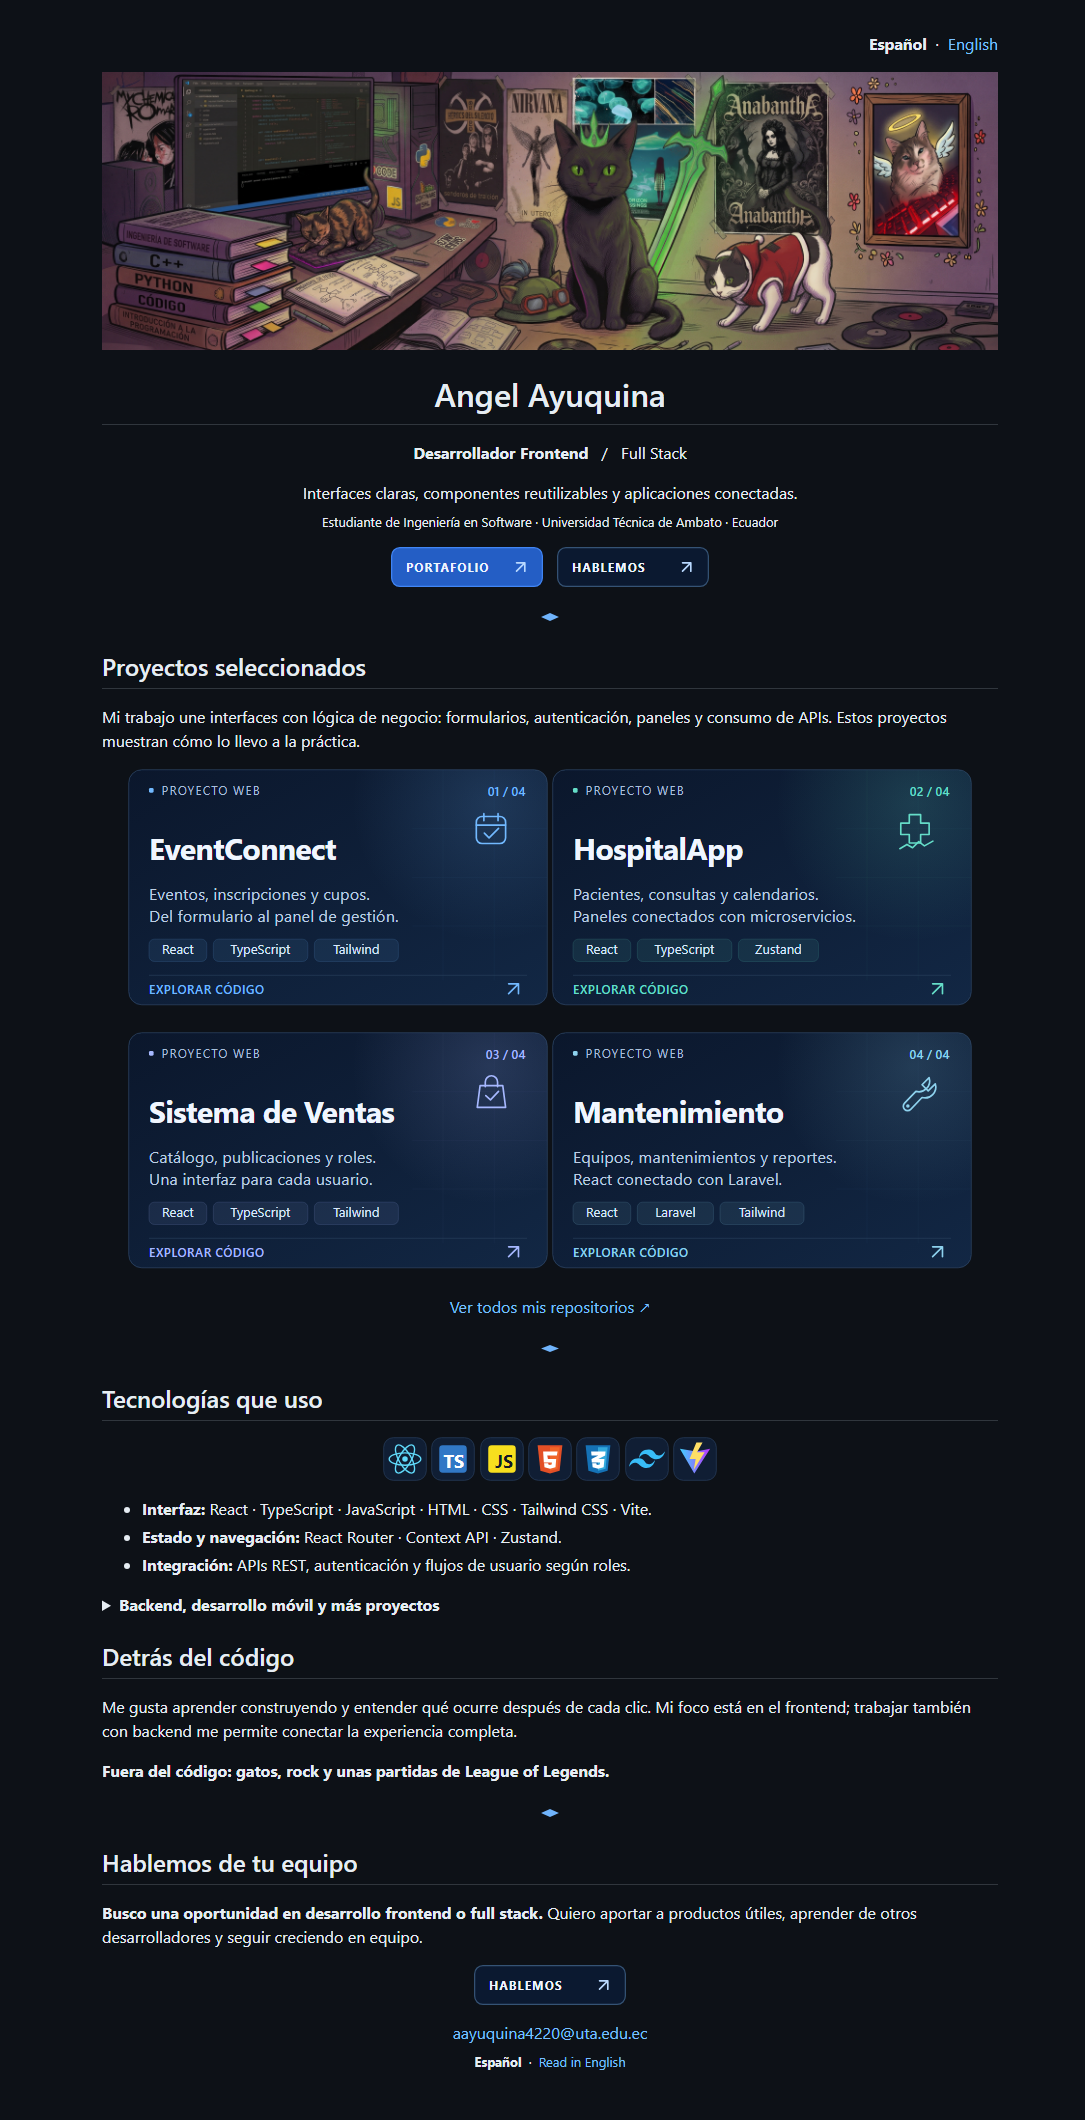
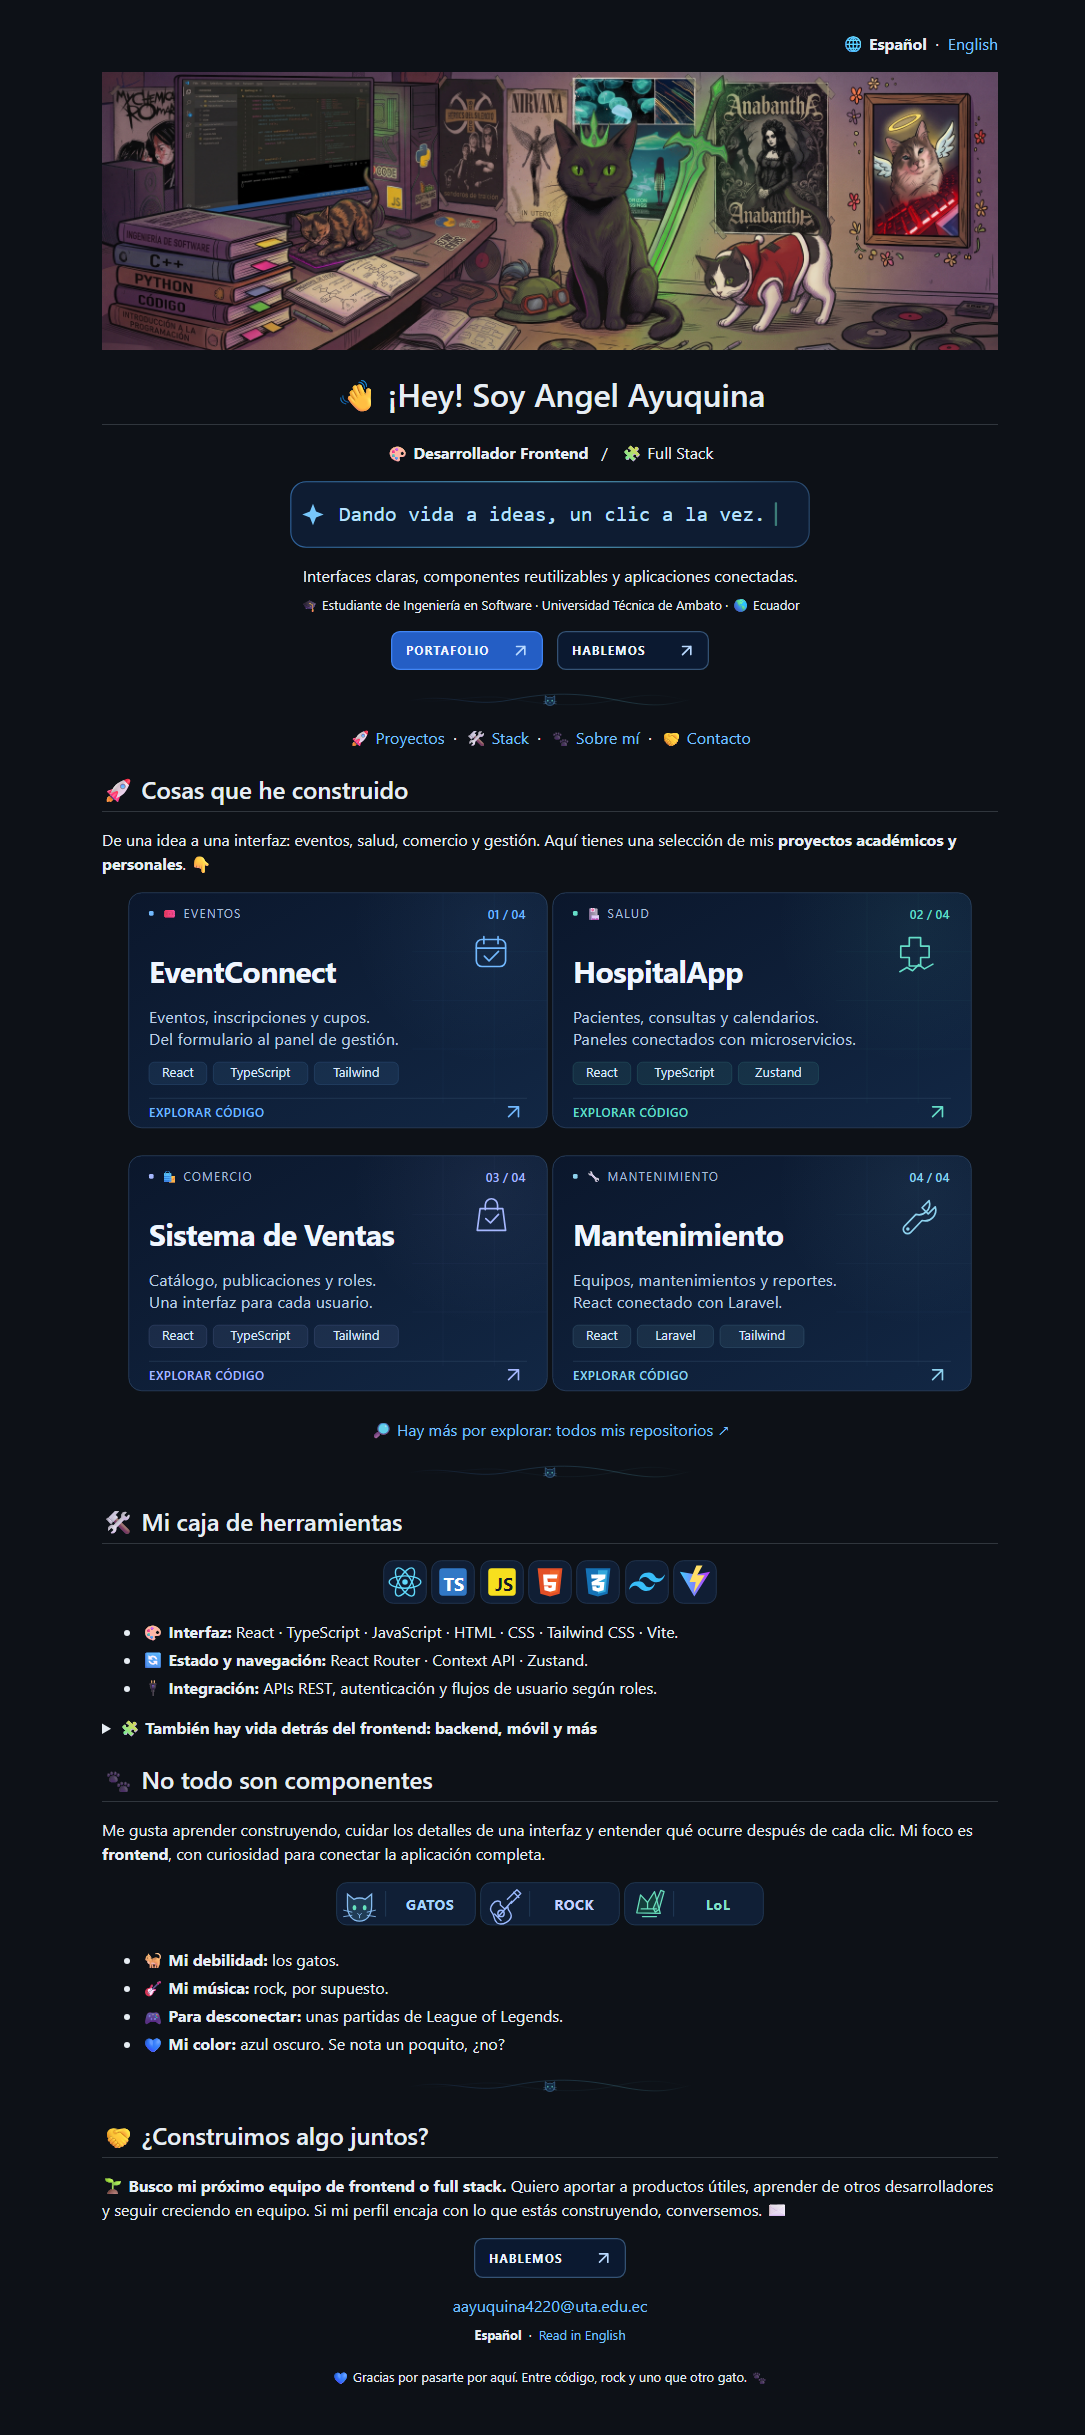
Add personality, emojis and animations to bilingual profile

diff --git a/README.md b/README.md
@@ -1,18 +1,22 @@
 <p align="right">
-  <strong>Español</strong> &nbsp;·&nbsp; <a href="./README.en.md" lang="en">English</a>
+  🌐 <strong>Español</strong> &nbsp;·&nbsp; <a href="./README.en.md" lang="en">English</a>
 </p>
 
 ![Habitación de programación y rock con gatos, detalles de Viego y Teemo y el retrato de un gato alado.](./assets/profile-header.png)
 
-<h1 align="center">Angel Ayuquina</h1>
+<h1 align="center">👋 ¡Hey! Soy Angel Ayuquina</h1>
 
 <p align="center">
-  <strong>Desarrollador Frontend</strong> &nbsp; / &nbsp; Full Stack
+  <strong>🎨 Desarrollador Frontend</strong> &nbsp; / &nbsp; 🧩 Full Stack
+</p>
+
+<p align="center">
+  <img src="./assets/ui/welcome-es.svg" width="520" alt="Dando vida a ideas, un clic a la vez.">
 </p>
 
 <p align="center">
   Interfaces claras, componentes reutilizables y aplicaciones conectadas.<br>
-  <sub>Estudiante de Ingeniería en Software · Universidad Técnica de Ambato · Ecuador</sub>
+  <sub>🎓 Estudiante de Ingeniería en Software · Universidad Técnica de Ambato · 🌎 Ecuador</sub>
 </p>
 
 <p align="center">
@@ -23,9 +27,18 @@
 
 <img src="./assets/ui/divider.svg" width="100%" height="18" alt="">
 
-## Proyectos seleccionados
+<p align="center">
+  <a href="#projects">🚀 Proyectos</a> &nbsp;·&nbsp;
+  <a href="#stack">🛠 Stack</a> &nbsp;·&nbsp;
+  <a href="#about">🐾 Sobre mí</a> &nbsp;·&nbsp;
+  <a href="#contact">🤝 Contacto</a>
+</p>
 
-Mi trabajo une interfaces con lógica de negocio: formularios, autenticación, paneles y consumo de APIs. Estos proyectos muestran cómo lo llevo a la práctica.
+<a name="projects"></a>
+
+## 🚀 Cosas que he construido
+
+De una idea a una interfaz: eventos, salud, comercio y gestión. Aquí tienes una selección de mis **proyectos académicos y personales**. 👇
 
 <p align="center">
   <a href="https://github.com/T1Angel4220/eventconnect"><img src="./assets/projects/eventconnect-es.svg" width="420" alt="EventConnect: eventos, inscripciones y cupos. React, TypeScript y Tailwind. Explorar código."></a>
@@ -38,12 +51,14 @@ Mi trabajo une interfaces con lógica de negocio: formularios, autenticación, p
 </p>
 
 <p align="center">
-  <a href="https://github.com/T1Angel4220?tab=repositories">Ver todos mis repositorios ↗</a>
+  <a href="https://github.com/T1Angel4220?tab=repositories">🔎 Hay más por explorar: todos mis repositorios ↗</a>
 </p>
 
 <img src="./assets/ui/divider.svg" width="100%" height="18" alt="">
 
-## Tecnologías que uso
+<a name="stack"></a>
+
+## 🛠 Mi caja de herramientas
 
 <p align="center">
   <img src="./assets/icons/react.svg" width="44" height="44" alt="React" title="React">
@@ -55,36 +70,49 @@ Mi trabajo une interfaces con lógica de negocio: formularios, autenticación, p
   <img src="./assets/icons/vite.svg" width="44" height="44" alt="Vite" title="Vite">
 </p>
 
-- **Interfaz:** React · TypeScript · JavaScript · HTML · CSS · Tailwind CSS · Vite.
-- **Estado y navegación:** React Router · Context API · Zustand.
-- **Integración:** APIs REST, autenticación y flujos de usuario según roles.
+- **🎨 Interfaz:** React · TypeScript · JavaScript · HTML · CSS · Tailwind CSS · Vite.
+- **🔄 Estado y navegación:** React Router · Context API · Zustand.
+- **🔌 Integración:** APIs REST, autenticación y flujos de usuario según roles.
 
 <details>
-<summary><strong>Backend, desarrollo móvil y más proyectos</strong></summary>
+<summary><strong>🧩 También hay vida detrás del frontend: backend, móvil y más</strong></summary>
 
-- **Backend:** Node.js · Express · PHP · Laravel.
-- **Bases de datos:** PostgreSQL · MySQL.
-- **Herramientas:** Git · GitHub · Docker.
+- **⚙ Backend:** Node.js · Express · PHP · Laravel.
+- **🗄 Bases de datos:** PostgreSQL · MySQL.
+- **🔧 Herramientas:** Git · GitHub · Docker.
 
-**[EventConnect Mobile](https://github.com/T1Angel4220/eventconnect-movil)** — Cliente móvil de eventos con React Native, Expo y TypeScript.
+**📱 [EventConnect Mobile](https://github.com/T1Angel4220/eventconnect-movil)** — Cliente móvil de eventos con React Native, Expo y TypeScript.
 
-**[Agente Telegram](https://github.com/T1Angel4220/AgenteTelegram)** — Bot con NestJS y TypeScript que conecta Telegram, GitHub y Trello.
+**🤖 [Agente Telegram](https://github.com/T1Angel4220/AgenteTelegram)** — Bot con NestJS y TypeScript que conecta Telegram, GitHub y Trello.
 
-**[Combustible SKT](https://github.com/T1Angel4220/Combustible-SKT)** — Microservicios con Java, Spring Boot, gRPC y Docker.
+**⛽ [Combustible SKT](https://github.com/T1Angel4220/Combustible-SKT)** — Microservicios con Java, Spring Boot, gRPC y Docker.
 
 </details>
 
-## Detrás del código
+<a name="about"></a>
 
-Me gusta aprender construyendo y entender qué ocurre después de cada clic. Mi foco está en el frontend; trabajar también con backend me permite conectar la experiencia completa.
+## 🐾 No todo son componentes
 
-**Fuera del código: gatos, rock y unas partidas de League of Legends.**
+Me gusta aprender construyendo, cuidar los detalles de una interfaz y entender qué ocurre después de cada clic. Mi foco es **frontend**, con curiosidad para conectar la aplicación completa.
+
+<p align="center">
+  <img src="./assets/interests/cats-es.svg" width="140" alt="Gatos">
+  <img src="./assets/interests/rock.svg" width="140" alt="Música rock">
+  <img src="./assets/interests/league.svg" width="140" alt="League of Legends">
+</p>
+
+- 🐈 **Mi debilidad:** los gatos.
+- 🎸 **Mi música:** rock, por supuesto.
+- 🎮 **Para desconectar:** unas partidas de League of Legends.
+- 💙 **Mi color:** azul oscuro. Se nota un poquito, ¿no?
 
 <img src="./assets/ui/divider.svg" width="100%" height="18" alt="">
 
-## Hablemos de tu equipo
+<a name="contact"></a>
 
-**Busco una oportunidad en desarrollo frontend o full stack.** Quiero aportar a productos útiles, aprender de otros desarrolladores y seguir creciendo en equipo.
+## 🤝 ¿Construimos algo juntos?
+
+**🌱 Busco mi próximo equipo de frontend o full stack.** Quiero aportar a productos útiles, aprender de otros desarrolladores y seguir creciendo en equipo. Si mi perfil encaja con lo que estás construyendo, conversemos. ✉
 
 <p align="center">
   <a href="mailto:aayuquina4220@uta.edu.ec"><img src="./assets/ui/contact-es.svg" width="152" height="40" alt="Escríbeme"></a>
@@ -93,4 +121,8 @@ Me gusta aprender construyendo y entender qué ocurre después de cada clic. Mi 
 <p align="center">
   <a href="mailto:aayuquina4220@uta.edu.ec">aayuquina4220@uta.edu.ec</a><br>
   <sub><strong>Español</strong> &nbsp;·&nbsp; <a href="./README.en.md" lang="en">Read in English</a></sub>
+</p>
+
+<p align="center">
+  <sub>💙 Gracias por pasarte por aquí. Entre código, rock y uno que otro gato. 🐾</sub>
 </p>

diff --git a/README.en.md b/README.en.md
@@ -1,18 +1,22 @@
 <p align="right">
-  <a href="./README.md" lang="es">Español</a> &nbsp;·&nbsp; <strong>English</strong>
+  🌐 <a href="./README.md" lang="es">Español</a> &nbsp;·&nbsp; <strong>English</strong>
 </p>
 
 ![A coding and rock music room with cats, Viego and Teemo details, and a framed portrait of a winged cat.](./assets/profile-header.png)
 
-<h1 align="center">Angel Ayuquina</h1>
+<h1 align="center">👋 Hey! I'm Angel Ayuquina</h1>
 
 <p align="center">
-  <strong>Frontend Developer</strong> &nbsp; / &nbsp; Full Stack
+  <strong>🎨 Frontend Developer</strong> &nbsp; / &nbsp; 🧩 Full Stack
+</p>
+
+<p align="center">
+  <img src="./assets/ui/welcome-en.svg" width="520" alt="Building ideas, one click at a time.">
 </p>
 
 <p align="center">
   Clear interfaces, reusable components and connected applications.<br>
-  <sub>Software Engineering student · Universidad Técnica de Ambato · Ecuador</sub>
+  <sub>🎓 Software Engineering student · Universidad Técnica de Ambato · 🌎 Ecuador</sub>
 </p>
 
 <p align="center">
@@ -23,9 +27,18 @@
 
 <img src="./assets/ui/divider.svg" width="100%" height="18" alt="">
 
-## Selected projects
+<p align="center">
+  <a href="#projects">🚀 Projects</a> &nbsp;·&nbsp;
+  <a href="#stack">🛠 Stack</a> &nbsp;·&nbsp;
+  <a href="#about">🐾 About me</a> &nbsp;·&nbsp;
+  <a href="#contact">🤝 Contact</a>
+</p>
 
-My projects connect interfaces with business logic: forms, authentication, dashboards and API integration. Here is a selection of what I have built.
+<a name="projects"></a>
+
+## 🚀 Things I've built
+
+From an idea to an interface: events, healthcare, commerce and management. Here is a selection of my **academic and personal projects**. 👇
 
 <p align="center">
   <a href="https://github.com/T1Angel4220/eventconnect"><img src="./assets/projects/eventconnect-en.svg" width="420" alt="EventConnect: events, registrations and capacity. React, TypeScript and Tailwind. Explore code."></a>
@@ -38,12 +51,14 @@ My projects connect interfaces with business logic: forms, authentication, dashb
 </p>
 
 <p align="center">
-  <a href="https://github.com/T1Angel4220?tab=repositories">Explore all my repositories ↗</a>
+  <a href="https://github.com/T1Angel4220?tab=repositories">🔎 There's more to explore: all my repositories ↗</a>
 </p>
 
 <img src="./assets/ui/divider.svg" width="100%" height="18" alt="">
 
-## Technologies I use
+<a name="stack"></a>
+
+## 🛠 My development toolbox
 
 <p align="center">
   <img src="./assets/icons/react.svg" width="44" height="44" alt="React" title="React">
@@ -55,36 +70,49 @@ My projects connect interfaces with business logic: forms, authentication, dashb
   <img src="./assets/icons/vite.svg" width="44" height="44" alt="Vite" title="Vite">
 </p>
 
-- **Interface:** React · TypeScript · JavaScript · HTML · CSS · Tailwind CSS · Vite.
-- **State and routing:** React Router · Context API · Zustand.
-- **Integration:** REST APIs, authentication and role-based user flows.
+- **🎨 Interface:** React · TypeScript · JavaScript · HTML · CSS · Tailwind CSS · Vite.
+- **🔄 State and routing:** React Router · Context API · Zustand.
+- **🔌 Integration:** REST APIs, authentication and role-based user flows.
 
 <details>
-<summary><strong>Backend, mobile development and more projects</strong></summary>
+<summary><strong>🧩 There's more behind the frontend: backend, mobile and other projects</strong></summary>
 
-- **Backend:** Node.js · Express · PHP · Laravel.
-- **Databases:** PostgreSQL · MySQL.
-- **Tools:** Git · GitHub · Docker.
+- **⚙ Backend:** Node.js · Express · PHP · Laravel.
+- **🗄 Databases:** PostgreSQL · MySQL.
+- **🔧 Tools:** Git · GitHub · Docker.
 
-**[EventConnect Mobile](https://github.com/T1Angel4220/eventconnect-movil)** — An event app built with React Native, Expo and TypeScript.
+**📱 [EventConnect Mobile](https://github.com/T1Angel4220/eventconnect-movil)** — An event app built with React Native, Expo and TypeScript.
 
-**[Agente Telegram](https://github.com/T1Angel4220/AgenteTelegram)** — A NestJS and TypeScript bot connecting Telegram, GitHub and Trello.
+**🤖 [Agente Telegram](https://github.com/T1Angel4220/AgenteTelegram)** — A NestJS and TypeScript bot connecting Telegram, GitHub and Trello.
 
-**[Combustible SKT](https://github.com/T1Angel4220/Combustible-SKT)** — Microservices built with Java, Spring Boot, gRPC and Docker.
+**⛽ [Combustible SKT](https://github.com/T1Angel4220/Combustible-SKT)** — Microservices built with Java, Spring Boot, gRPC and Docker.
 
 </details>
 
-## Behind the code
+<a name="about"></a>
 
-I enjoy learning by building and understanding what happens after each click. Frontend is my focus; working with backend services helps me connect the whole experience.
+## 🐾 Life beyond components
 
-**Away from code: cats, rock music and a few games of League of Legends.**
+I enjoy learning by building, paying attention to interface details and understanding what happens after each click. **Frontend** is my focus, with the curiosity to connect the whole application.
+
+<p align="center">
+  <img src="./assets/interests/cats-en.svg" width="140" alt="Cats">
+  <img src="./assets/interests/rock.svg" width="140" alt="Rock music">
+  <img src="./assets/interests/league.svg" width="140" alt="League of Legends">
+</p>
+
+- 🐈 **My weakness:** cats.
+- 🎸 **My music:** rock, of course.
+- 🎮 **To unwind:** a few games of League of Legends.
+- 💙 **My favorite color:** midnight blue. You might have noticed.
 
 <img src="./assets/ui/divider.svg" width="100%" height="18" alt="">
 
-## Let's talk about your team
+<a name="contact"></a>
 
-**I'm looking for a frontend or full stack development opportunity.** I want to contribute to useful products, learn from other developers and grow with a team.
+## 🤝 Shall we build something together?
+
+**🌱 I'm looking for my next frontend or full stack team.** I want to contribute to useful products, learn from other developers and grow with a team. If my profile fits what you're building, let's talk. ✉
 
 <p align="center">
   <a href="mailto:aayuquina4220@uta.edu.ec"><img src="./assets/ui/contact-en.svg" width="152" height="40" alt="Email me"></a>
@@ -93,4 +121,8 @@ I enjoy learning by building and understanding what happens after each click. Fr
 <p align="center">
   <a href="mailto:aayuquina4220@uta.edu.ec">aayuquina4220@uta.edu.ec</a><br>
   <sub><a href="./README.md" lang="es">Leer en español</a> &nbsp;·&nbsp; <strong>English</strong></sub>
+</p>
+
+<p align="center">
+  <sub>💙 Thanks for stopping by. A little code, a little rock and a cat or two. 🐾</sub>
 </p>

diff --git a/docs/diseno-perfil.md b/docs/diseno-perfil.md
@@ -6,12 +6,12 @@ Vistas previas: [escritorio](./previews/perfil-escritorio.png) · [móvil](./pre
 
 ## Estructura
 
-1. Idioma, banner, nombre y orientación profesional.
+1. Idioma, banner, saludo con emojis, orientación profesional y bienvenida animada.
 2. Accesos al portafolio y al correo.
-3. Cuatro proyectos enlazados, con tarjetas ilustradas en azul oscuro.
+3. Navegación rápida y cuatro proyectos enlazados, con tarjetas ilustradas en azul oscuro y movimiento sutil.
 4. Tecnologías, con iconos y texto accesible.
 5. Información ampliable de backend y proyectos complementarios.
-6. Presentación personal y contacto.
+6. Presentación personal con distintivos de gatos, rock y League of Legends, y contacto.
 
 ## Recursos locales
 
@@ -19,10 +19,14 @@ Vistas previas: [escritorio](./previews/perfil-escritorio.png) · [móvil](./pre
 - `assets/projects/`: tarjetas de proyectos, con versiones `-es.svg` y `-en.svg`.
 - `assets/icons/`: iconos de las tecnologías del frontend.
 - `assets/ui/`: botones de contacto, portafolio y separador.
+- `assets/ui/welcome-es.svg` y `welcome-en.svg`: bienvenida con efecto de escritura.
+- `assets/interests/`: distintivos de gatos, rock y League of Legends.
 
 Las tarjetas son portadas gráficas de los proyectos; no son capturas de sus aplicaciones. Cada una contiene un enlace al repositorio y una descripción alternativa en el idioma correspondiente.
 
 Los SVG usan tipografías del sistema y no necesitan paquetes, scripts ni servicios externos de imágenes. Su texto, colores e iconos se pueden editar directamente en los archivos. Al cambiar un proyecto, hay que actualizar sus dos tarjetas y los enlaces y descripciones alternativas de ambos README.
+
+La bienvenida, las luces de las tarjetas y el separador usan animaciones CSS dentro de los SVG. Respetan `prefers-reduced-motion`: cuando el visitante solicita reducir el movimiento, el texto queda visible y los efectos se detienen. El banner original es estático y se conserva como archivo independiente.
 
 ## Presentación en GitHub
 
